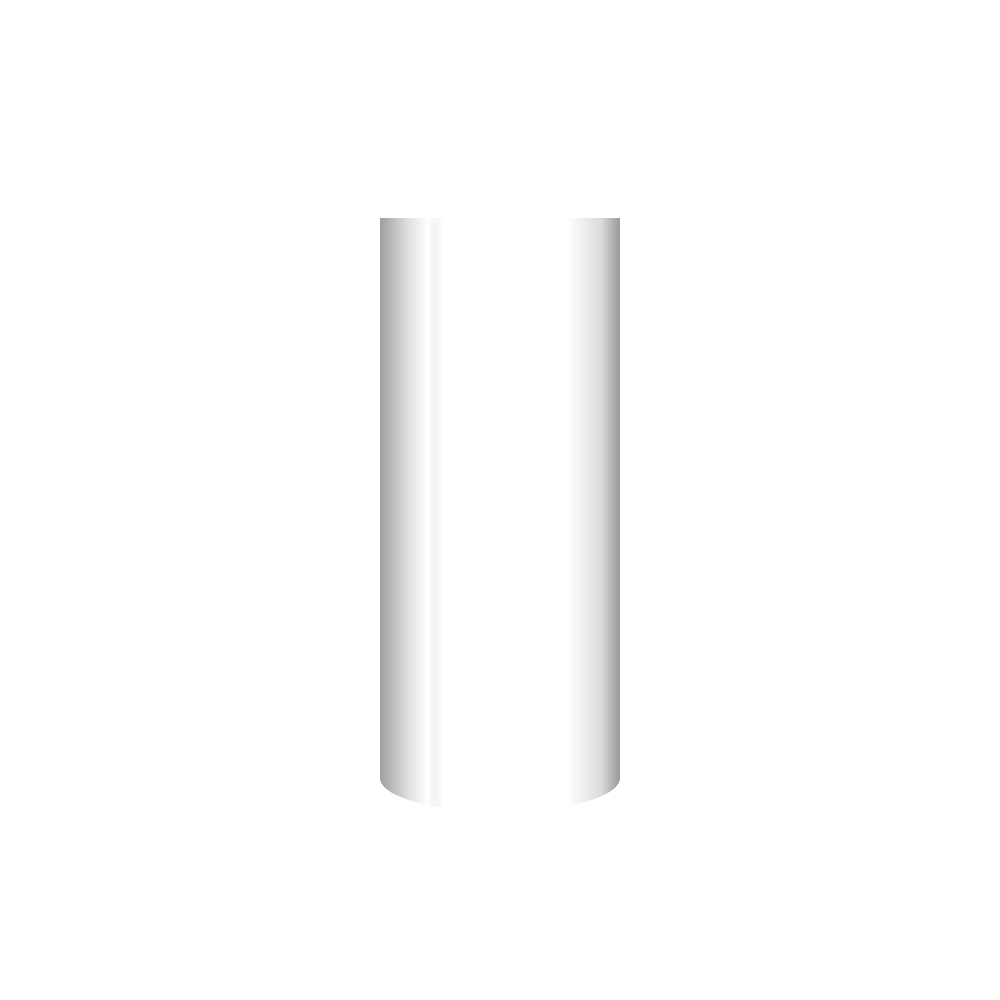
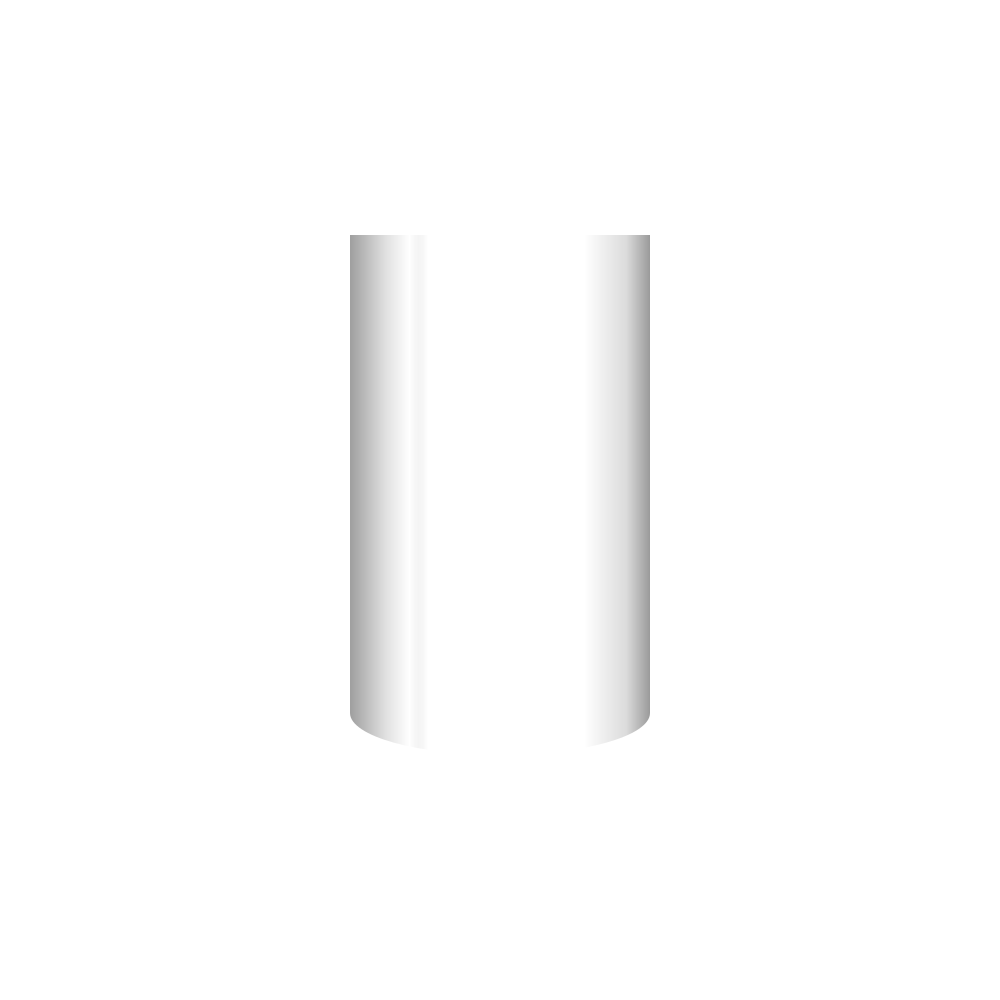
fix(mockup): physical mm scaling — label covers the product correctly
The can mockup centered the label by aspect ratio, leaving a small band
on a can drawn with off proportions. Now each scene declares a layout:

- band (olburk): full quad width, height = label mm / zone mm, centered
  and clamped — a 90mm label covers 78% of the 33cl body, 130mm fills it
- fill (barfront): the print covers the entire front quad
- fit (vinflaska): unchanged aspect fit

Can redrawn with true 33cl proportions (66×115mm body). bandInQuad
interpolates along the quad edges so perspective is preserved (+tests).

Changed region(s): [[0.341, 0.217, 0.434, 0.806], [0.589, 0.217, 0.651, 0.806]]

diff --git a/src/lib/templateMockupScenes.ts b/src/lib/templateMockupScenes.ts
@@ -2,6 +2,19 @@ import type { BBox } from './shieldBBox.ts';
 import type { MockupScene } from './mockupScenes.ts';
 
 /**
+ * How the composed label is placed inside the scene's quad:
+ * - `fit`  — largest aspect-preserving box centered in the quad (loose labels)
+ * - `fill` — stretch to the whole quad (prints that cover the entire surface)
+ * - `band` — full quad width, height scaled physically: the label's mm height
+ *   relative to `zoneHeightMm` (the real-world height the quad represents),
+ *   vertically centered and clamped. A 90mm label on a 115mm can covers 78%.
+ */
+export type MockupLayout =
+  | { mode: 'fit' }
+  | { mode: 'fill' }
+  | { mode: 'band'; zoneHeightMm: number };
+
+/**
  * A product-photo scene for a parametric template. `visibleWidthRatio` is the
  * horizontal fraction of the label that is visible from the scene's viewpoint
  * (centered crop): a full-wrap can only shows its front, and the 170cm bar
@@ -9,6 +22,7 @@ import type { MockupScene } from './mockupScenes.ts';
  */
 export interface TemplateMockupScene extends MockupScene {
   visibleWidthRatio: number;
+  layout: MockupLayout;
 }
 
 export const TEMPLATE_MOCKUP_SCENES: Record<string, TemplateMockupScene> = {
@@ -18,10 +32,12 @@ export const TEMPLATE_MOCKUP_SCENES: Record<string, TemplateMockupScene> = {
     photo: '/mockups/can.jpg',
     photoW: 1000,
     photoH: 1000,
-    corners: [{ x: 388, y: 258 }, { x: 612, y: 258 }, { x: 612, y: 782 }, { x: 388, y: 782 }],
+    corners: [{ x: 352, y: 242 }, { x: 648, y: 242 }, { x: 648, y: 748 }, { x: 352, y: 748 }],
     foreground: '/mockups/can-fg.png',
     // ~45% of the full 360° wrap reads as the visible front of the can.
     visibleWidthRatio: 0.45,
+    // The drawn can body is 33cl-proportioned: quad height = 115mm of can.
+    layout: { mode: 'band', zoneHeightMm: 115 },
   },
   vinflaska: {
     id: 'wine',
@@ -32,6 +48,7 @@ export const TEMPLATE_MOCKUP_SCENES: Record<string, TemplateMockupScene> = {
     corners: [{ x: 408, y: 430 }, { x: 592, y: 430 }, { x: 592, y: 845 }, { x: 408, y: 845 }],
     foreground: '/mockups/wine-fg.png',
     visibleWidthRatio: 1,
+    layout: { mode: 'fit' },
   },
   barfront: {
     id: 'bar',
@@ -42,6 +59,8 @@ export const TEMPLATE_MOCKUP_SCENES: Record<string, TemplateMockupScene> = {
     corners: [{ x: 165, y: 140 }, { x: 855, y: 112 }, { x: 855, y: 712 }, { x: 165, y: 800 }],
     // 120cm of the 170cm print shows on the front; the rest wraps the sides.
     visibleWidthRatio: 1200 / 1700,
+    // The print covers the entire bar front — fill the measured quad.
+    layout: { mode: 'fill' },
   },
 };
 
@@ -56,4 +75,22 @@ export interface CropRectMm {
 export function visibleLabelCropMm(label: BBox, visibleWidthRatio: number): CropRectMm {
   const w = label.w * Math.min(1, Math.max(0, visibleWidthRatio));
   return { x: label.x + (label.w - w) / 2, y: label.y, w, h: label.h };
+}
+
+type Pt = { x: number; y: number };
+type Quad = [Pt, Pt, Pt, Pt];
+
+const lerp = (a: Pt, b: Pt, t: number): Pt => ({ x: a.x + (b.x - a.x) * t, y: a.y + (b.y - a.y) * t });
+
+/**
+ * Full-width horizontal band of the quad, `fraction` of its height (clamped to
+ * [0, 1]), vertically centered — interpolated along the quad's side edges so
+ * perspective is preserved.
+ */
+export function bandInQuad(quad: Quad, fraction: number): Quad {
+  const f = Math.min(1, Math.max(0, fraction));
+  const top = (1 - f) / 2;
+  const bottom = top + f;
+  const [tl, tr, br, bl] = quad;
+  return [lerp(tl, bl, top), lerp(tr, br, top), lerp(tr, br, bottom), lerp(tl, bl, bottom)];
 }

diff --git a/src/lib/templateMockupScenes.test.ts b/src/lib/templateMockupScenes.test.ts
@@ -1,5 +1,5 @@
 import { describe, it, expect } from 'vitest';
-import { TEMPLATE_MOCKUP_SCENES, visibleLabelCropMm } from './templateMockupScenes';
+import { TEMPLATE_MOCKUP_SCENES, bandInQuad, visibleLabelCropMm } from './templateMockupScenes';
 
 describe('visibleLabelCropMm', () => {
   const label = { x: 6, y: 6, w: 204, h: 90 };
@@ -26,6 +26,38 @@ describe('visibleLabelCropMm', () => {
   it('clamps ratio to [0, 1]', () => {
     expect(visibleLabelCropMm(label, 1.5).w).toBe(204);
     expect(visibleLabelCropMm(label, -1).w).toBe(0);
+  });
+});
+
+describe('bandInQuad', () => {
+  const quad = [{ x: 0, y: 0 }, { x: 100, y: 0 }, { x: 100, y: 200 }, { x: 0, y: 200 }] as const;
+
+  it('full fraction returns the whole quad', () => {
+    expect(bandInQuad([...quad], 1)).toEqual([...quad]);
+  });
+
+  it('half fraction returns a centered full-width band', () => {
+    const b = bandInQuad([...quad], 0.5);
+    expect(b[0]).toEqual({ x: 0, y: 50 });
+    expect(b[1]).toEqual({ x: 100, y: 50 });
+    expect(b[2]).toEqual({ x: 100, y: 150 });
+    expect(b[3]).toEqual({ x: 0, y: 150 });
+  });
+
+  it('interpolates along slanted edges (perspective preserved)', () => {
+    const slanted = [{ x: 0, y: 0 }, { x: 100, y: 20 }, { x: 100, y: 180 }, { x: 0, y: 200 }] as const;
+    const b = bandInQuad([...slanted], 0.5);
+    expect(b[0].y).toBeCloseTo(50);
+    expect(b[1].y).toBeCloseTo(60);
+  });
+
+  it('clamps the fraction above 1 (oversized label fills the zone)', () => {
+    expect(bandInQuad([...quad], 130 / 115)).toEqual([...quad]);
+  });
+
+  it('90mm label on a 115mm can covers 78% of the body', () => {
+    const b = bandInQuad([...quad], 90 / 115);
+    expect((b[2].y - b[1].y) / 200).toBeCloseTo(90 / 115);
   });
 });
 

diff --git a/src/components/Editor/TemplateMockup.tsx b/src/components/Editor/TemplateMockup.tsx
@@ -2,7 +2,7 @@ import { useEffect, useMemo, useRef } from 'react';
 import type { Canvas } from 'fabric';
 import { cornerPin, fitRectInQuad } from '../../lib/cornerPin.ts';
 import { shieldBBoxes } from '../../lib/shieldBBox.ts';
-import { TEMPLATE_MOCKUP_SCENES, visibleLabelCropMm } from '../../lib/templateMockupScenes.ts';
+import { TEMPLATE_MOCKUP_SCENES, bandInQuad, visibleLabelCropMm } from '../../lib/templateMockupScenes.ts';
 import { useLang } from '../../lib/LangContext.ts';
 import type { StickerTemplate } from '../../types/template.ts';
 
@@ -83,11 +83,14 @@ export function TemplateMockup({ fabricCanvas, template, bgColor }: Props) {
     };
   }, [fabricCanvas, template.widthMm, crop, bgColor]);
 
-  // Pin the composed label onto the scene's measured quad.
+  // Pin the composed label onto the scene's quad per the scene's layout mode.
   const transform = useMemo(() => {
     if (!scene || !crop) return 'none';
-    const fitted = fitRectInQuad(scene.corners, crop.w / crop.h);
-    return cornerPin(OUT_W, outH, fitted);
+    const target =
+      scene.layout.mode === 'fill' ? scene.corners
+      : scene.layout.mode === 'band' ? bandInQuad(scene.corners, crop.h / scene.layout.zoneHeightMm)
+      : fitRectInQuad(scene.corners, crop.w / crop.h);
+    return cornerPin(OUT_W, outH, target);
   }, [scene, crop, outH]);
 
   if (!scene || !crop) return null;
